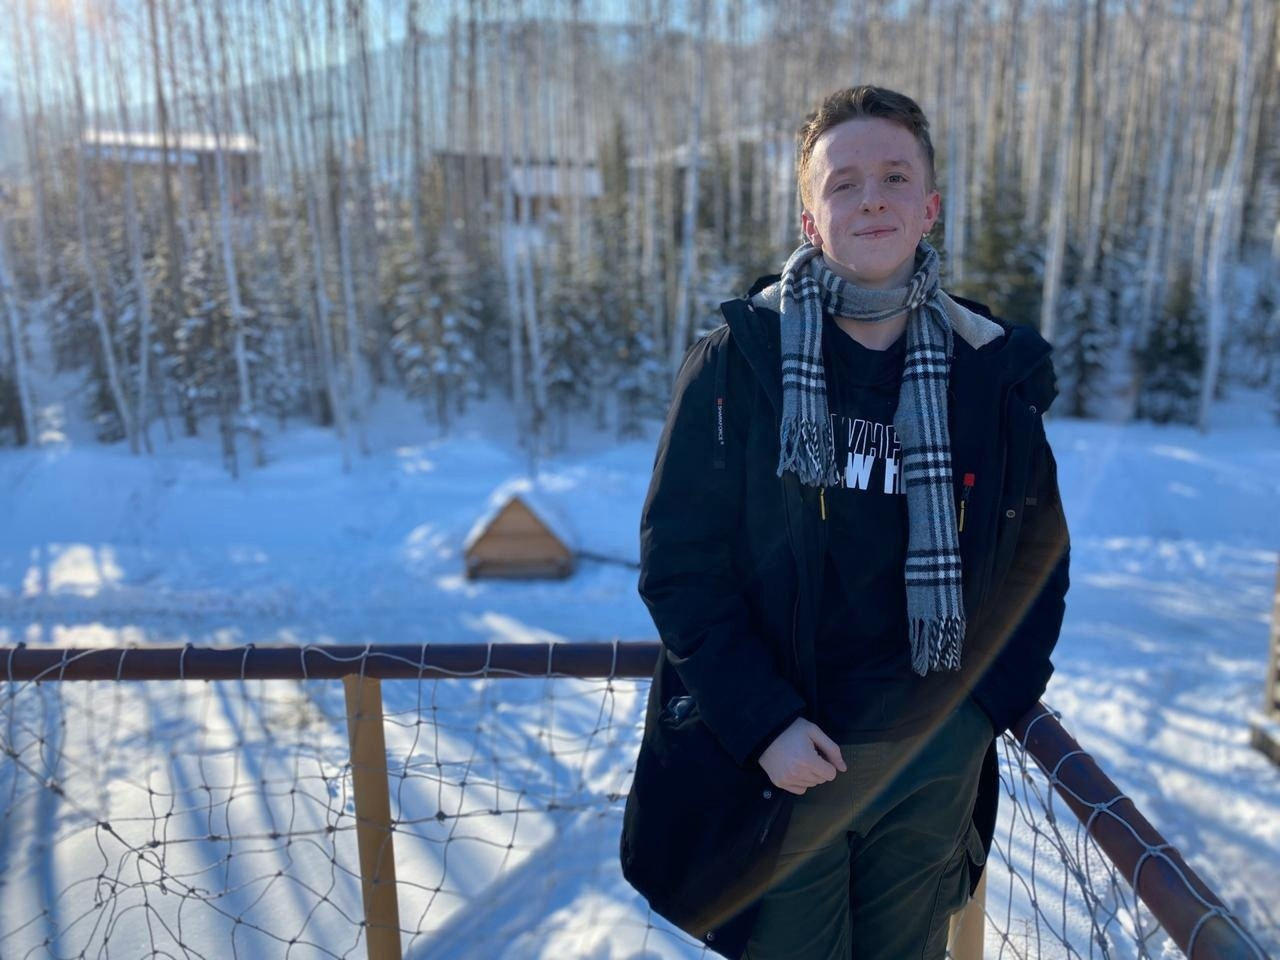
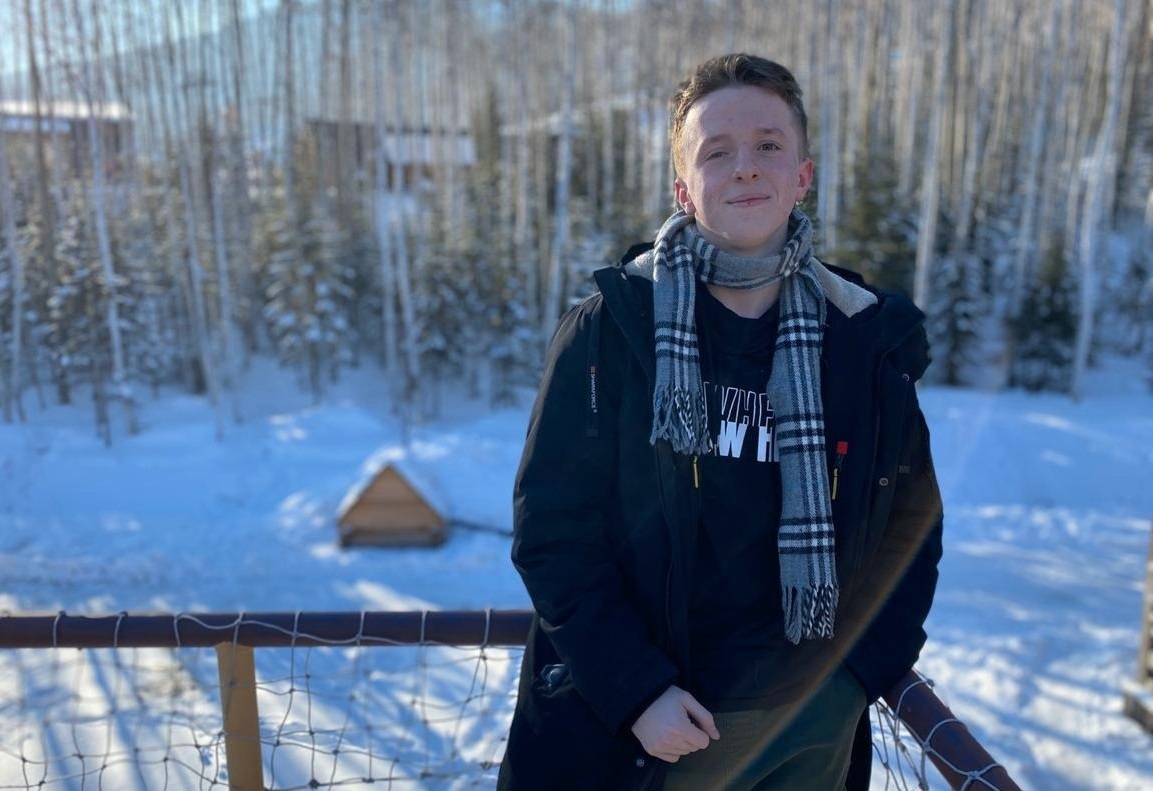
great job

diff --git a/Project.html b/Project.html
@@ -15,7 +15,9 @@
       <span>PavelCode</span>
     </div>
     <div id="about">
-      <a href="#" onclick="slowScroll('#main')">Обо мне</a>
+      <a href="#" onclick="slowScroll('#main')">Об Паше</a>
+      <a href="#" onclick="slowScroll('#main_aleksandr')">Об Саше</a>
+      <a href="#" onclick="slowScroll('#main_vladimir')">Об Вове</a>
       <a href="#" onclick="slowScroll('#overwiew')">Проекты</a>
       <a href="#" onclick="slowScroll('#contacts')">Контакты</a>
       <a href="SecontPage.html">Таблица</a>
@@ -58,7 +60,7 @@
   <div id="main_vladimir">
     <div class="intro">
       <h3>Владимир Росляков Владимир</h3>
-      <img src="assets\media\Vova.jpg" alt="">
+      <img src="assets\media\Vova1.jpg" alt="">
     </div>
 
     <div id="magictext_vladimir">

diff --git a/scripts.js b/scripts.js
@@ -13,10 +13,25 @@ $(document).on("scroll", function () {
 $(document).ready(function(){
   $("#hidden1").fadeTo(2000, 1);
   $("#hidden2").fadeTo(5000, 1);
-});//почему не работает fadeIn? Блеят!
+});
 
 $(document).scroll(function () {
   if($(window).scrollTop() > 200){
     $("#main").fadeTo(1000, 1);
   }
+
+});
+
+$(document).scroll(function () {
+  if($(window).scrollTop() > 200){
+    $("#main_aleksandr").fadeTo(1000, 1);
+  }
+
+});
+
+$(document).scroll(function () {
+  if($(window).scrollTop() > 200){
+    $("#main_vladimir").fadeTo(1000, 1);
+  }
+
 });

diff --git a/assets/css/style.css b/assets/css/style.css
@@ -36,7 +36,7 @@ header #logo span {
 	font-family: "Anton", serif;
 }
 
-@media (min-width: 701px) {
+	@media (min-width: 701px) {
 	#logo {
 		float: left;
 		width: 30%;
